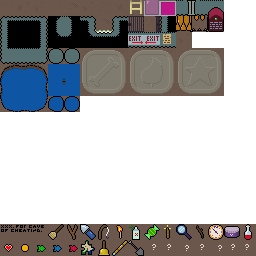
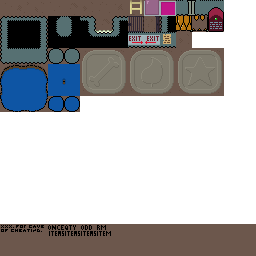
redesign cave of cheating, with activities

Changed region(s): [[0.0, 0.875, 1.0, 1.0], [0.5312, 0.9688, 0.5625, 1.0]]

diff --git a/src/game/activity/activity_cheat.c b/src/game/activity/activity_cheat.c
@@ -1,0 +1,99 @@
+/* activity_cheat.c
+ * These are reachable in the Cave of Cheating, which will not exist in the real game.
+ * Remove or neutralize these for production builds.
+ */
+ 
+#include "activity_internal.h"
+
+/* Cheat store, multiple options.
+ */
+ 
+void begin_cheat_store(struct sprite *initiator,int arg) {
+  struct modal_args_shop args={
+    .text="Welcome to Cheat Shop!",
+    .textc=-1,
+    .speaker=initiator,
+  };
+  struct modal *modal=modal_spawn(&modal_type_shop,&args,sizeof(args));
+  if (!modal) return;
+  switch (arg) {
+    case 1: {
+        modal_shop_add_item(modal,NS_itemid_broom,0,1);
+        modal_shop_add_item(modal,NS_itemid_divining,0,1);
+        modal_shop_add_item(modal,NS_itemid_wand,0,1);
+        modal_shop_add_item(modal,NS_itemid_fishpole,0,1);
+        modal_shop_add_item(modal,NS_itemid_hookshot,0,1);
+        modal_shop_add_item(modal,NS_itemid_magnifier,0,1);
+        modal_shop_add_item(modal,NS_itemid_compass,0,1);
+        modal_shop_add_item(modal,NS_itemid_bell,0,1);
+        modal_shop_add_item(modal,NS_itemid_telescope,0,1);
+        modal_shop_add_item(modal,NS_itemid_shovel,0,1);
+      } break;
+    case 2: {
+        modal_shop_add_item(modal,NS_itemid_match,0,100);
+        modal_shop_add_item(modal,NS_itemid_bugspray,0,10);
+        modal_shop_add_item(modal,NS_itemid_potion,0,3);
+        modal_shop_add_item(modal,NS_itemid_candy,0,10);
+        modal_shop_add_item(modal,NS_itemid_vanishing,0,10);
+        modal_shop_add_item(modal,NS_itemid_gold,0,100);
+        modal_shop_add_item(modal,NS_itemid_greenfish,0,10);
+        modal_shop_add_item(modal,NS_itemid_bluefish,0,10);
+        modal_shop_add_item(modal,NS_itemid_redfish,0,10);
+        modal_shop_add_item(modal,NS_itemid_heart,0,10);
+        modal_shop_add_item(modal,NS_itemid_pepper,0,10);
+      } break;
+    case 3: {
+        modal_shop_add_item(modal,NS_itemid_stick,0,1);
+        modal_shop_add_item(modal,NS_itemid_heartcontainer,0,1);
+        modal_shop_add_item(modal,NS_itemid_barrelhat,0,1);
+      } break;
+  }
+}
+
+/* Prompt to give away the equipped item.
+ */
+ 
+static int giveaway_cb(int optionid,void *userdata) {
+  if (optionid==4) {
+    struct invstore *inv=g.store.invstorev+0;
+    inv->itemid=0;
+    inv->quantity=0;
+    inv->limit=0;
+  }
+  return 0;
+}
+ 
+void begin_cheat_giveaway(struct sprite *initiator,int arg) {
+  if (!g.store.invstorev[0].itemid) {
+    struct modal_args_dialogue args={
+      .text="Talk to me with an item equipped and I can delete it.",
+      .textc=-1,
+      .speaker=initiator,
+    };
+    modal_spawn(&modal_type_dialogue,&args,sizeof(args));
+    return;
+  }
+  const struct item_detail *detail=item_detail_for_itemid(g.store.invstorev[0].itemid);
+  struct text_insertion ins;
+  if (detail&&detail->strix_name) {
+    ins.mode='r';
+    ins.r.rid=RID_strings_item;
+    ins.r.strix=detail->strix_name;
+  } else {
+    ins.mode='s';
+    ins.s.v="thing";
+    ins.s.c=5;
+  }
+  struct modal_args_dialogue args={
+    .text="Delete your %0?",
+    .textc=-1,
+    .insv=&ins,
+    .insc=1,
+    .speaker=initiator,
+    .cb=giveaway_cb,
+  };
+  struct modal *modal=modal_spawn(&modal_type_dialogue,&args,sizeof(args));
+  if (!modal) return;
+  modal_dialogue_add_option_string(modal,RID_strings_dialogue,4);
+  modal_dialogue_add_option_string(modal,RID_strings_dialogue,5);
+}

diff --git a/src/game/modal/modal_shop.c b/src/game/modal/modal_shop.c
@@ -250,15 +250,18 @@ static void shop_purchase(struct modal *modal,const struct option *option) {
   if (MODAL->cb_validated&&MODAL->cb_validated(option->itemid,quantity,price,MODAL->userdata)) {
     return;
   }
+  int jingle=1;
   if (detail->inventoriable) {
     if (!store_add_itemid(option->itemid,quantity)) return;
   } else {
-    fprintf(stderr,"%s:%d: Purchase non-inventory item %d\n",__FILE__,__LINE__,option->itemid);//TODO should have some helper here, like possessed_quantity_for_itemid()
+    game_get_item(option->itemid,quantity);
+    jingle=0;
   }
-  store_set_fld16(NS_fld16_gold,gold-price);
+  // Update gold in store. It shouldn't happen in the real game, but our Cave of Cheating has a store where you can buy gold for free. Don't update in that case; we'd overwrite it.
+  if (option->itemid!=NS_itemid_gold) store_set_fld16(NS_fld16_gold,gold-price);
   
   // Dismiss.
-  bm_sound(RID_sound_uiactivate);
+  if (jingle) bm_sound(RID_sound_uiactivate);
   MODAL->stage=STAGE_FAREWELL;
 }
 
@@ -473,14 +476,17 @@ static void _shop_render(struct modal *modal) {
     const uint32_t maxcolor=0x00ff00ff;
     const uint32_t somecolor=0xf08040ff;
     const uint32_t nonecolor=0xb0b0b0ff;
+    int q,limit;
     if (invstore) {
-      if (invstore->limit==0) shop_small_decuint(modal,auxx+auxw-15,auxy+15,1,maxcolor); // Not quantity-bearing, so we have 1.
-      else if (invstore->quantity>=invstore->limit) shop_small_decuint(modal,auxx+auxw-15,auxy+15,invstore->quantity,maxcolor);
-      else if (invstore->quantity) shop_small_decuint(modal,auxx+auxw-15,auxy+15,invstore->quantity,somecolor);
-      else shop_small_decuint(modal,auxx+auxw-15,auxy+15,invstore->quantity,nonecolor);
+      q=invstore->quantity;
+      limit=invstore->limit;
     } else {
-      shop_small_decuint(modal,auxx+auxw-15,auxy+15,0,nonecolor);
+      q=possessed_quantity_for_itemid(option->itemid,&limit);
     }
+    if (limit==0) shop_small_decuint(modal,auxx+auxw-15,auxy+15,1,maxcolor); // Not quantity-bearing, so we have 1.
+    else if (q>=limit) shop_small_decuint(modal,auxx+auxw-15,auxy+15,q,maxcolor);
+    else if (q) shop_small_decuint(modal,auxx+auxw-15,auxy+15,q,somecolor);
+    else shop_small_decuint(modal,auxx+auxw-15,auxy+15,q,nonecolor);
     int price=option->price;
     if (option->quantity&&!option->force_quantity) price*=option->quantity;
     int gold=store_get_fld16(NS_fld16_gold);

diff --git a/src/game/modal/modal_dialogue.c b/src/game/modal/modal_dialogue.c
@@ -140,24 +140,25 @@ static int _dialogue_init(struct modal *modal,const void *arg,int argc) {
   
   if (arg&&(argc==sizeof(struct modal_args_dialogue))) {
     const struct modal_args_dialogue *args=arg;
+    const char *text=0;
+    int textc=0;
     if (args->text) {
-      if (dialogue_set_text(modal,args->text,args->textc)<0) return -1;
+      text=args->text;
+      textc=args->textc;
     } else if (args->rid&&args->strix) {
-      const char *text=0;
-      int textc=text_get_string(&text,args->rid,args->strix);
-      if (textc>0) {
-        if (args->insv&&args->insc) {
-          char tmp[1024];
-          int tmpc=text_format(tmp,sizeof(tmp),text,textc,args->insv,args->insc);
-          if ((tmpc<0)||(tmpc>sizeof(tmp))) {
-            fprintf(stderr,"WARNING: strings:%d:%d yielded %d bytes. (lang=%d)\n",args->rid,args->strix,tmpc,egg_prefs_get(EGG_PREF_LANG));
-            tmpc=0;
-          }
-          if (dialogue_set_text(modal,tmp,tmpc)<0) return -1;
-        } else {
-          if (dialogue_set_text(modal,text,textc)<0) return -1;
-        }
+      textc=text_get_string(&text,args->rid,args->strix);
+    }
+    if (!text) textc=0; else if (textc<0) { textc=0; while (text[textc]) textc++; }
+    if (args->insv&&args->insc) {
+      char tmp[1024];
+      int tmpc=text_format(tmp,sizeof(tmp),text,textc,args->insv,args->insc);
+      if ((tmpc<0)||(tmpc>sizeof(tmp))) {
+        fprintf(stderr,"WARNING: strings:%d:%d yielded %d bytes. (lang=%d)\n",args->rid,args->strix,tmpc,egg_prefs_get(EGG_PREF_LANG));
+        tmpc=0;
       }
+      if (dialogue_set_text(modal,tmp,tmpc)<0) return -1;
+    } else {
+      if (dialogue_set_text(modal,text,textc)<0) return -1;
     }
     if (args->speaker) {
       dialogue_origin_sprite(modal,args->speaker);

diff --git a/src/game/activity/activity.c b/src/game/activity/activity.c
@@ -37,6 +37,8 @@ void game_begin_activity(int activity,int arg,struct sprite *initiator) {
     case NS_activity_logproblem1: begin_logproblem1(initiator); break;
     case NS_activity_logproblem2: begin_logproblem2(initiator); break;
     case NS_activity_board_of_elections: begin_board_of_elections(initiator); break;
+    case NS_activity_cheat_store: begin_cheat_store(initiator,arg); break;
+    case NS_activity_cheat_giveaway: begin_cheat_giveaway(initiator,arg); break;
     default: {
         fprintf(stderr,"Unknown activity %d.\n",activity);
       }

diff --git a/src/game/shared_symbols.h b/src/game/shared_symbols.h
@@ -186,6 +186,8 @@
 #define NS_activity_logproblem1 18
 #define NS_activity_logproblem2 19
 #define NS_activity_board_of_elections 20
+#define NS_activity_cheat_store 21 /* (u16)which: 1,2,3 */
+#define NS_activity_cheat_giveaway 22
 
 #define NS_sprtype_dummy        0 /* (u32)0 */
 #define NS_sprtype_hero         1 /* (u32)0 */

diff --git a/src/game/activity/activity_internal.h b/src/game/activity/activity_internal.h
@@ -41,4 +41,8 @@ void begin_logproblem1(struct sprite *initiator);
 void begin_logproblem2(struct sprite *initiator);
 void begin_board_of_elections(struct sprite *initiator);
 
+// activity_cheat.c
+void begin_cheat_store(struct sprite *initiator,int arg);
+void begin_cheat_giveaway(struct sprite *initiator,int arg);
+
 #endif

diff --git a/src/game/game.c b/src/game/game.c
@@ -502,7 +502,7 @@ static const struct item_detail item_detailv[]={
     .hand_tileid=0,
     .strix_name=36,
     .strix_help=37,
-    .initial_limit=0,
+    .initial_limit=12,
     .inventoriable=0,
     .fld16=NS_fld16_hpmax,
   },

diff --git a/README.md b/README.md
@@ -24,58 +24,6 @@ Requires [Egg](https://github.com/aksommerville/egg2) to build.
 
 ## TODO
 
-- [x] Election
-- - [x] How many guilds and what are they? ...6
-- - - 10 Available houses in Fractia.
-- - - Food Service Guild
-- - - - Watching (Cook,2)
-- - - - Topping (HotDogVendor,2)
-- - - - Stacking (Waiter,2)
-- - - - Shaking (Bartender,2)
-- - - - Flapjack (Cook,2)
-- - - - CakeCarrying (Baker,2)
-- - - Public Sector Employee's Union
-- - - - Traffic (Cop,2)
-- - - - CheeseCutting (Executioner,2)
-- - - - Latin (Teacher)
-- - - - Rescuing (Firefighter)
-- - - Athlete's Guild
-- - - - SumoHorse (Wrestler,2)
-- - - - Fencing (Samurai,2)
-- - - - Jeter (Dancer,2)
-- - - - HomeRunDerby (Ballplayer)
-- - - Hospital. Throwing clerical jobs in here too...
-- - - - Dissection (Doctor,2)
-- - - - CPR (Nurse,2)
-- - - - Stenography (Secretary,2)
-- - - - Sorting (Clerk,2)
-- - - Casino
-- - - - Slapping (Gambler,2)
-- - - - Shuffling (Dealer,2)
-- - - - Cheating (Hustler,1)
-- - - Journeymans' Guild
-- - - - Plumbing (Plumber,2)
-- - - - Building (Contractor,2)
-- - - - Sawing (Carpenter,2)
-- - - - Lawnmowing (Gardener,2)
-- - [x] Battle against Mayor Cat, with our endorsers helping.
-- - [x] Populate guilds and award endorsements correctly. Make placeholders for each guild game.
-- - - [x] Food Service
-- - - [x] Public Employees
-- - - [x] Athletes
-- - - [x] Hospital
-- - - [x] Casino
-- - - [x] Labor
-
-- [x] `activity.c` is going to keep growing. Split it out across several files.
-- [x] Refactor the battle mode to orthogonalize skin and control: Skin is (Monster,Dot,Princess) for each side, and Control is (Man,CPU) for each side.
-- - Ultimately I'd like 2-player mode to let you choose your hero.
-- - And might like to add a Dot-vs-(CPU)Princess side quest after rescuing her. "Hey let's play that one game again".
-- - [x] Distinguish "difficulty" from "handicap". How hard is the game, and how skilled the players, these are orthogonal concerns.
-- - Do finish the goblin games first as is, then update.
-- - [x] After this refactor, rewrite the placeholder and incorporate all the boilerplate I've been repeating on each goblin game.
-- - [x] Ensure that we're preventing the Princess from entering battles that don't support cpu-vs-cpu. The battles between the jail and the castle must support cpu-vs-cpu.
-- - - It should reach `battle_new` and fail validation with some logging, shouldn't be any harm. (everything currently reachable does support cvc)
 - [ ] Tree stories. These don't go in regular inventory. Need a list of them somewhere in the pause modal, where you can replay.
 - [ ] `modal_story.c:story_render_overlay()`: Cache overlay texture.
 - [ ] Friendly UI for editing saved games. (non-public, obviously)
@@ -114,8 +62,6 @@ Requires [Egg](https://github.com/aksommerville/egg2) to build.
 - [ ] Have monster pause a little after a battle completes, is that possible? Kind of annoying when you get mobbed.
 - [ ] Add a shop near the castle. Because as you're returning the Princess, you probably have lots of gold, but your purse is about to get maxed, great shopping opportunity.
 - [ ] Hiring: Randomize choice and order of criteria above a certain difficulty.
-- [x] Star Seal: Reduce the set of candidate battles, 11 is ridiculous. Make it like 4, then change the nearby rsprite to just those 4.
-- [x] After the battles refactor, we're now incorrectly placing an article in the Princess's prompt. ("an Erudition Contest: Princess vs Snoblin", shouldn't be any "an")
 
 - For exploration some time in the uncertain future.
 - [ ] Usable IP for the erudition contest.
@@ -208,3 +154,18 @@ Requires [Egg](https://github.com/aksommerville/egg2) to build.
 - executioner: CheeseCutting
 - teacher: Latin
 - firefighter: Rescuing
+- wrestler: SumoHorse
+- samurai: Fencing
+- dancer: Jeter
+- ballplayer: HomeRunDerby
+- doctor: Dissection
+- fractia_nurse: CPR
+- secretary: Stenography
+- clerk: Sorting
+- gambler: Slapping
+- dealer: Shuffling
+- hustler: Cheating
+- plumber: Plumbing
+- contractor: Building
+- fractia_carpenter: Sawing
+- gardener: Lawnmowing
